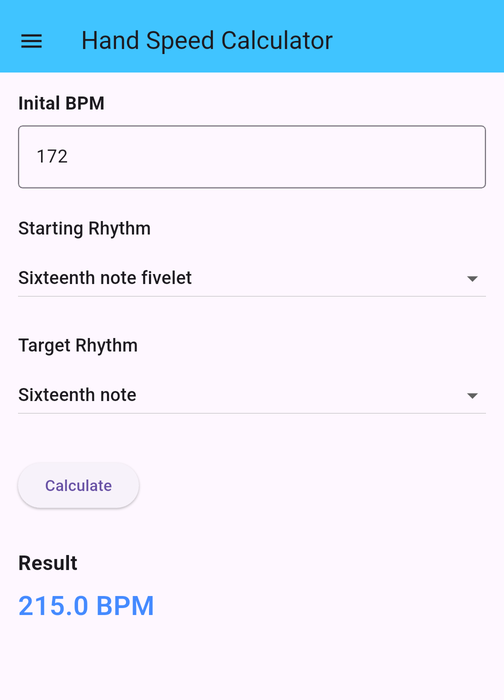
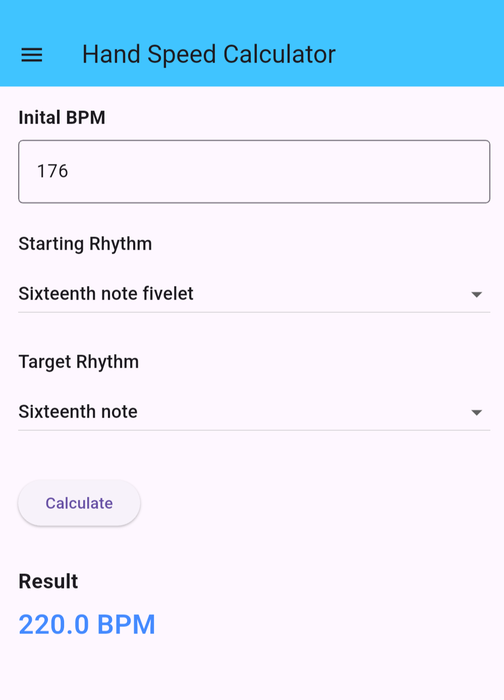
Use 176 BPM example and matching light mode screenshot

diff --git a/README.md b/README.md
@@ -2,13 +2,13 @@
 
 A cross-platform Flutter app for drummers and percussionists that converts a tempo between rhythmic subdivisions while keeping the **same hand speed** (notes per second).
 
-> *I can play sixteenth-note quintuplets at 172 BPM. What metronome setting gives me that same speed with straight sixteenths?*
-> **Answer: 215 BPM.**
+> *I can play sixteenth-note quintuplets at 176 BPM. What metronome setting gives me that same speed with straight sixteenths?*
+> **Answer: 220 BPM.**
 
 Musicians often build speed on one subdivision and then want to practice another at the same physical speed. Working that out in your head means doing fraction math with tuplets. This app does the math for you.
 
 <p align="center">
-  <img src="docs/screenshots/light_mode.png" alt="Light mode: sixteenth-note fivelets at 172 BPM convert to sixteenth notes at 215 BPM" width="300">
+  <img src="docs/screenshots/light_mode.png" alt="Light mode: sixteenth-note fivelets at 176 BPM convert to sixteenth notes at 220 BPM" width="300">
   &nbsp;&nbsp;
   <img src="docs/screenshots/dark_mode.png" alt="Dark mode: quarter-note triplets at 136 BPM convert to quarter notes at 204 BPM" width="300">
 </p>
@@ -28,7 +28,7 @@ Each rhythm is stored as its length in quarter-note beats. A sixteenth note is `
 target BPM = starting BPM × (target note length / starting note length)
 ```
 
-For the example above: `172 × (1/4 ÷ 1/5) = 215 BPM`.
+For the example above: `176 × (1/4 ÷ 1/5) = 220 BPM`.
 
 ## Tech Stack
 
